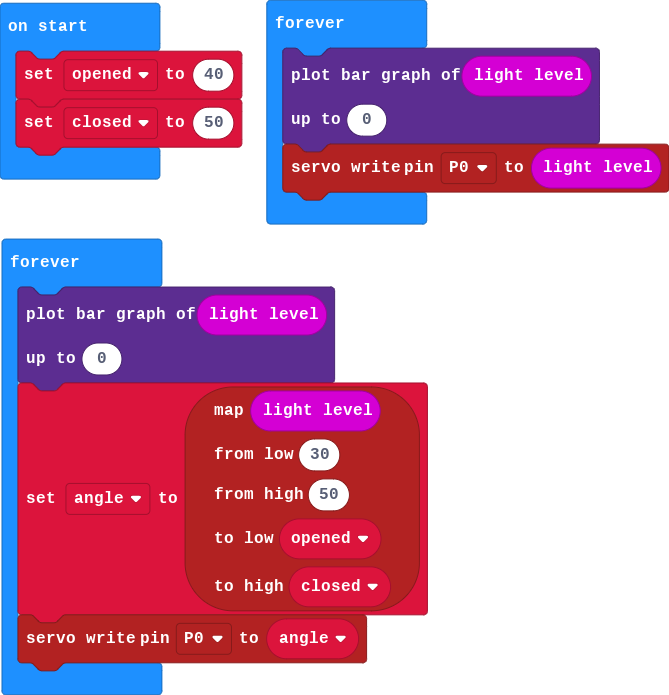
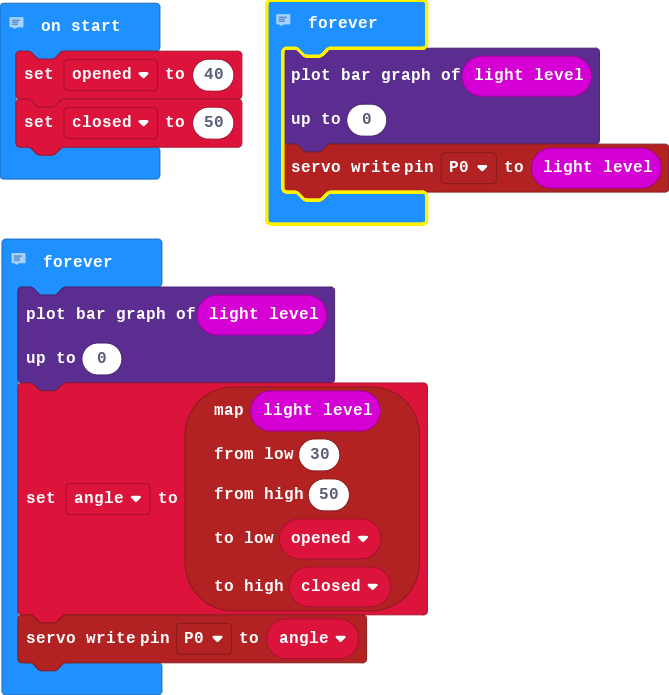
Update main.blocks, main.ts

Changed region(s): [[0.3886, 0.0, 0.6577, 0.3324], [0.0, 0.0, 0.1794, 0.0604], [0.0, 0.3626, 0.1794, 0.3928]]

diff --git a/main.ts b/main.ts
@@ -1,6 +1,8 @@
+// Sets open and close angles.
 let angle = 0
 let opened = 40
 let closed = 50
+// Pino 0 is light sensor.
 basic.forever(function () {
     led.plotBarGraph(
     input.lightLevel(),
@@ -8,6 +10,7 @@ basic.forever(function () {
     )
     pins.servoWritePin(AnalogPin.P0, input.lightLevel())
 })
+// Angle for servo to move.
 basic.forever(function () {
     led.plotBarGraph(
     input.lightLevel(),
